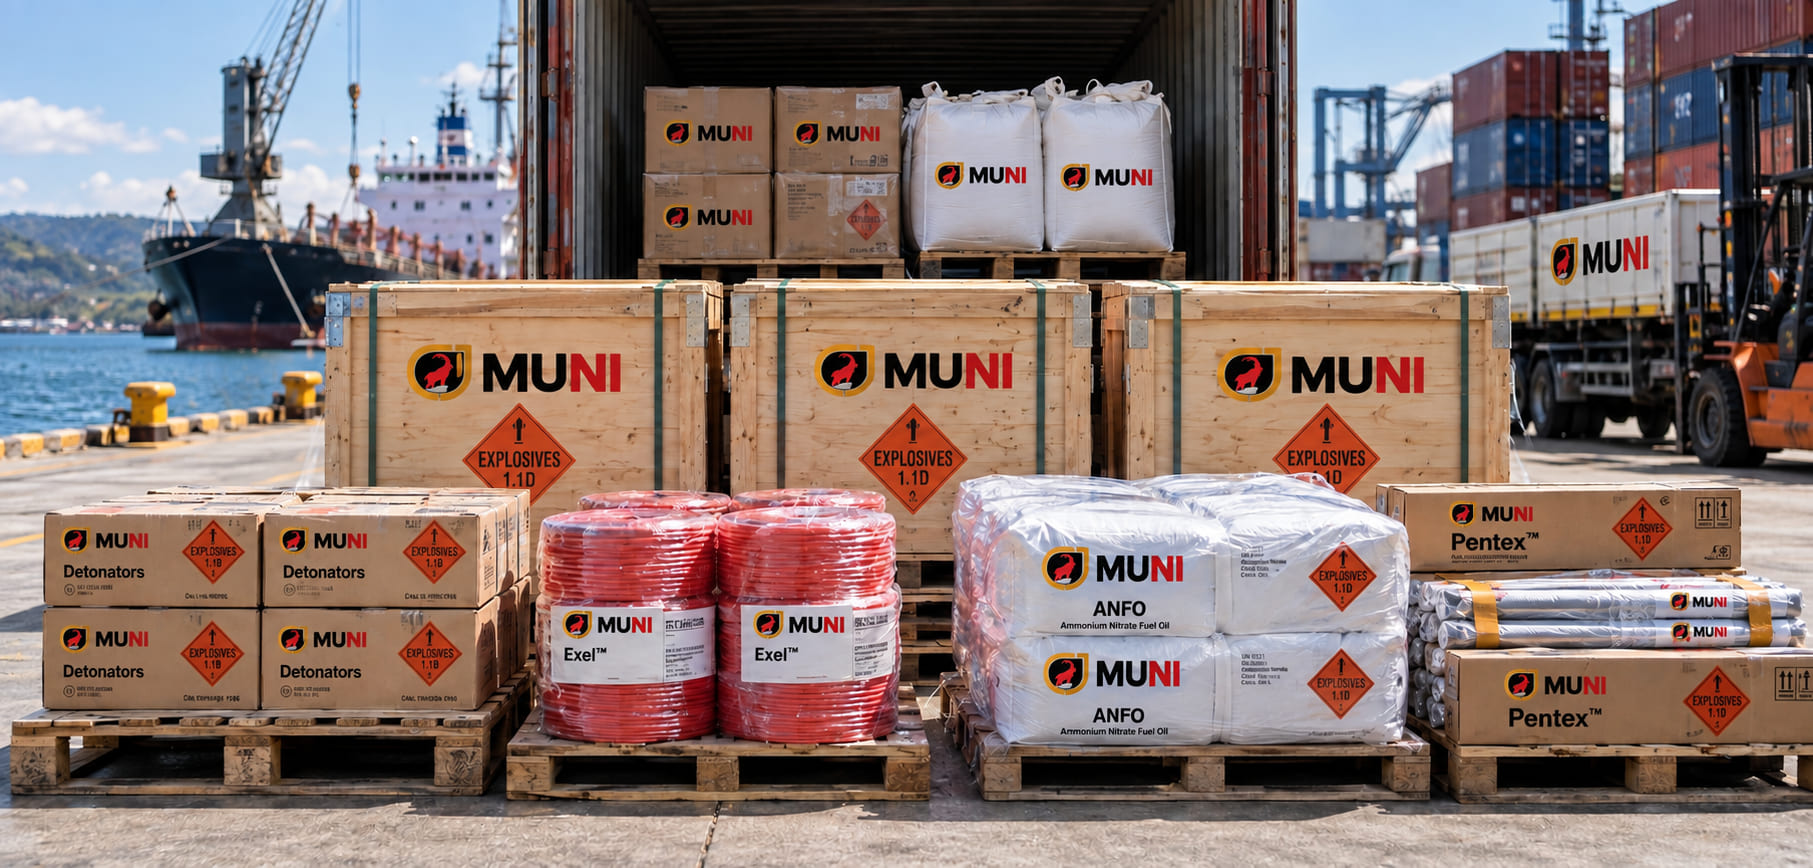
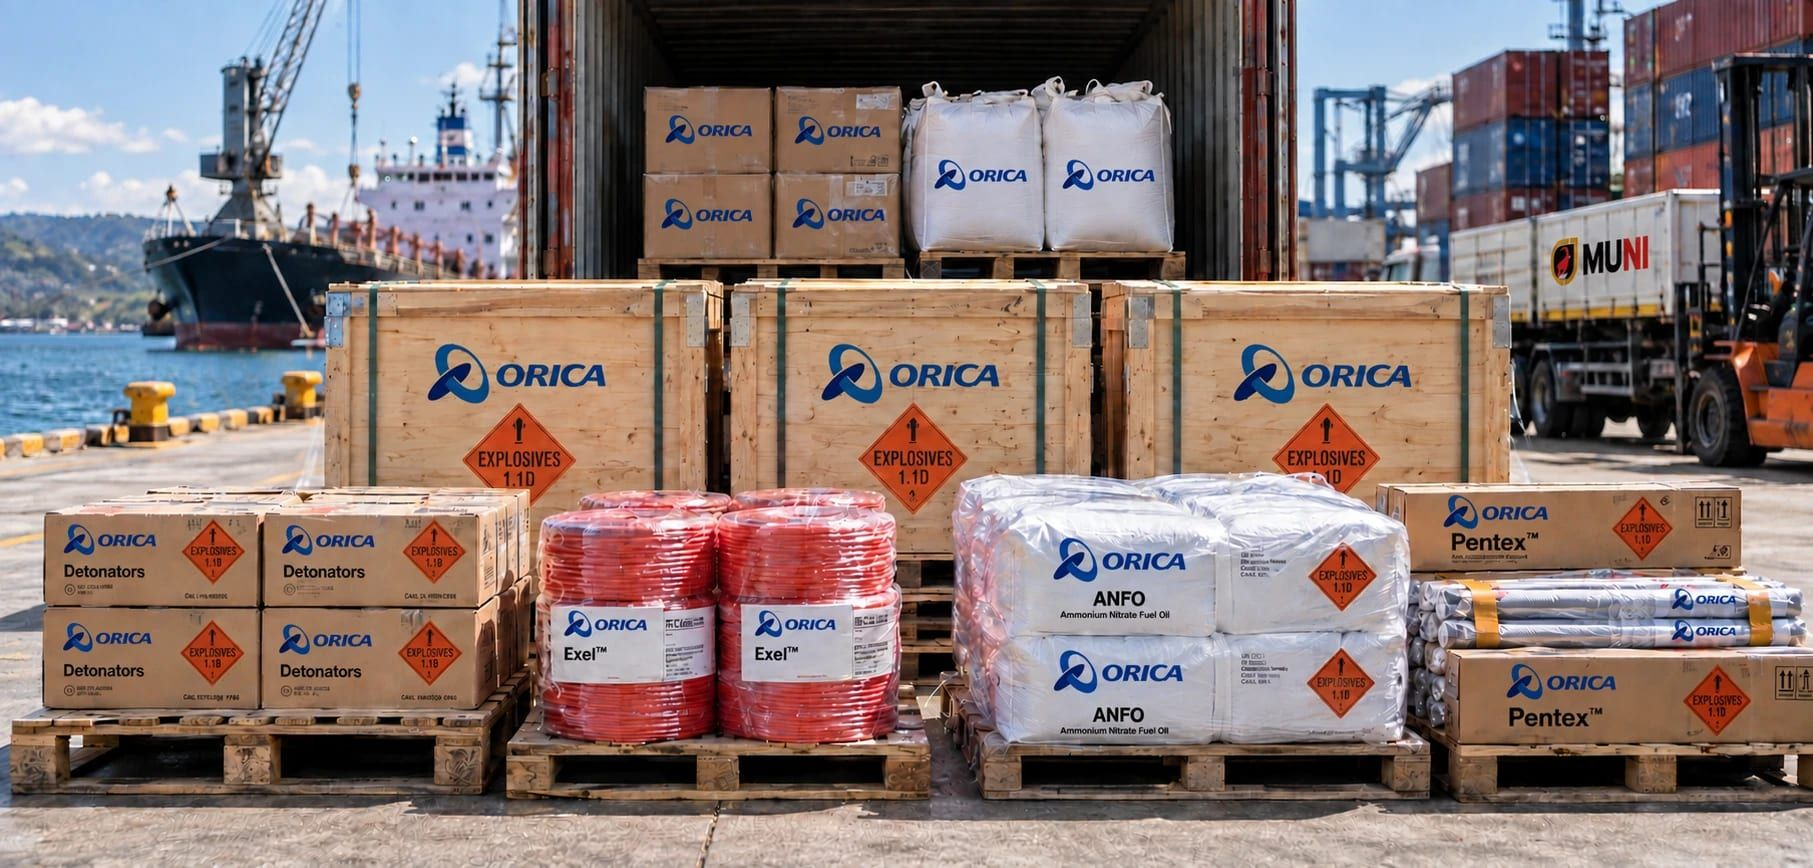
Refresh Orica-branded photography for Fertilizer & Reagents and Projects 02-04
Swaps in new supplied photos showing Orica product branding:
- reagents-fertilizers.jpg — Fertilizer & Reagents card and product page
- project-02-explosives-supply.jpg — crates, detonators, ANFO, Pentex dockside
- project-03-reagents-supply.jpg — reagent load-out at the wharf
- project-04-logistics-storage.jpg — warehouse racking and forklift

Alt text updated to match: the product in these shots is Orica-branded,
handled and delivered by CJ MUNI.

diff --git a/data/projects.ts b/data/projects.ts
@@ -40,7 +40,7 @@ export const PROJECTS: Project[] = [
       "CJ MUNI provided reliable explosives supply solutions to major civil construction and resource-sector clients across Papua New Guinea, including Santos, Curtain Brothers, and Corman Construction.",
     location: "Central Province, PNG",
     image: "/images/library/project-02-explosives-supply.jpg",
-    imageAlt: "CJ MUNI-branded explosives crates, detonators and ANFO pallets staged dockside for delivery",
+    imageAlt: "Orica-branded explosives crates, detonator cartons, Exel coils, ANFO and Pentex pallets staged dockside beside a CJ MUNI truck",
     detailsPending: false,
   },
   {
@@ -51,7 +51,7 @@ export const PROJECTS: Project[] = [
       "CJ MUNI provides reliable reagent supply solutions to clients operating within Papua New Guinea's mining and resource sectors, including AG Investment and Pioneer DG. Our reagent supply services support mineral processing and mining operations.",
     location: "Central Province, PNG",
     image: "/images/library/project-03-reagents-supply.jpg",
-    imageAlt: "CJ MUNI and Orica reagent product — flocculant drums, caustic soda flakes, polymer and IBCs — staged dockside with a ship alongside",
+    imageAlt: "CJ MUNI crew loading Orica reagent product — flocculant drums, caustic soda flakes, polymer and IBCs — into a container at the wharf with a ship alongside",
     detailsPending: false,
   },
   {
@@ -62,7 +62,7 @@ export const PROJECTS: Project[] = [
       "CJ MUNI provides reliable logistics and storage solutions to clients across Papua New Guinea's construction, mining, and resource sectors, including Curtain Brothers, Pacific Limestone Cement, and Mayur Resources.",
     location: "Central Province, PNG",
     image: "/images/library/project-04-logistics-storage.jpg",
-    imageAlt: "CJ MUNI warehouse team checking palletised stock in racking with a forklift working the aisle",
+    imageAlt: "CJ MUNI warehouse team checking palletised Orica stock in racking with a CJ MUNI forklift working the aisle",
     detailsPending: false,
   },
 ];
